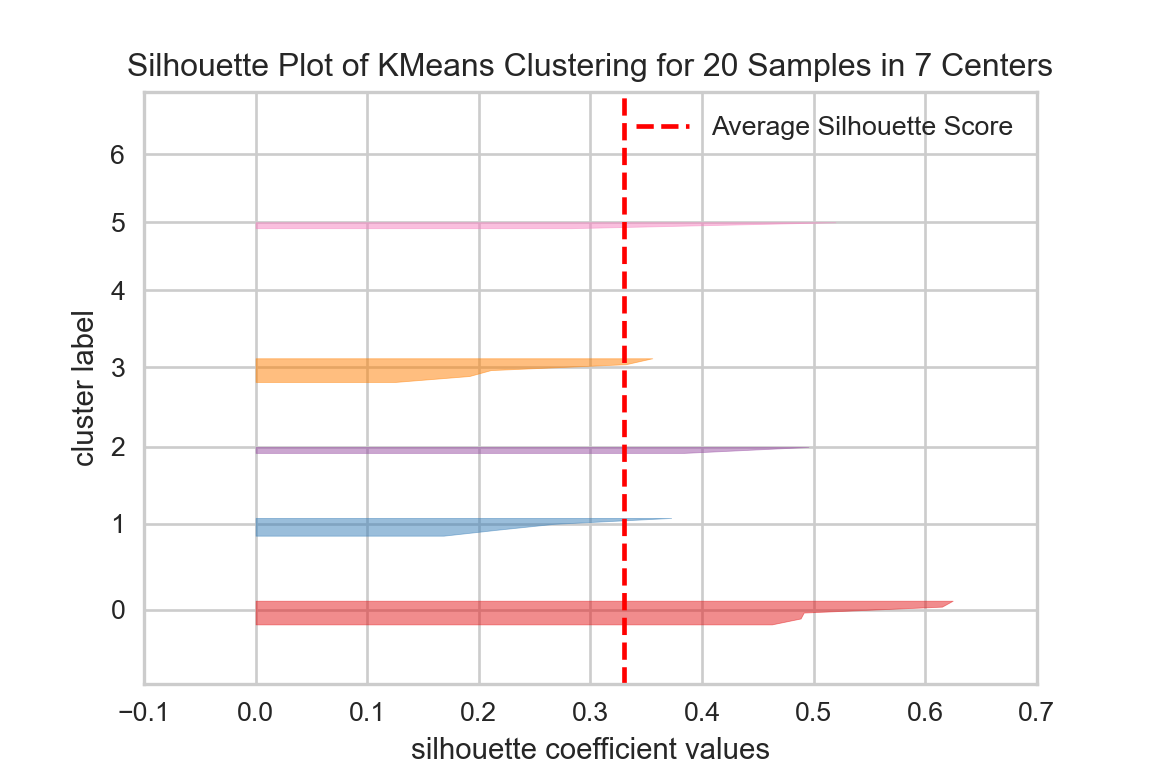
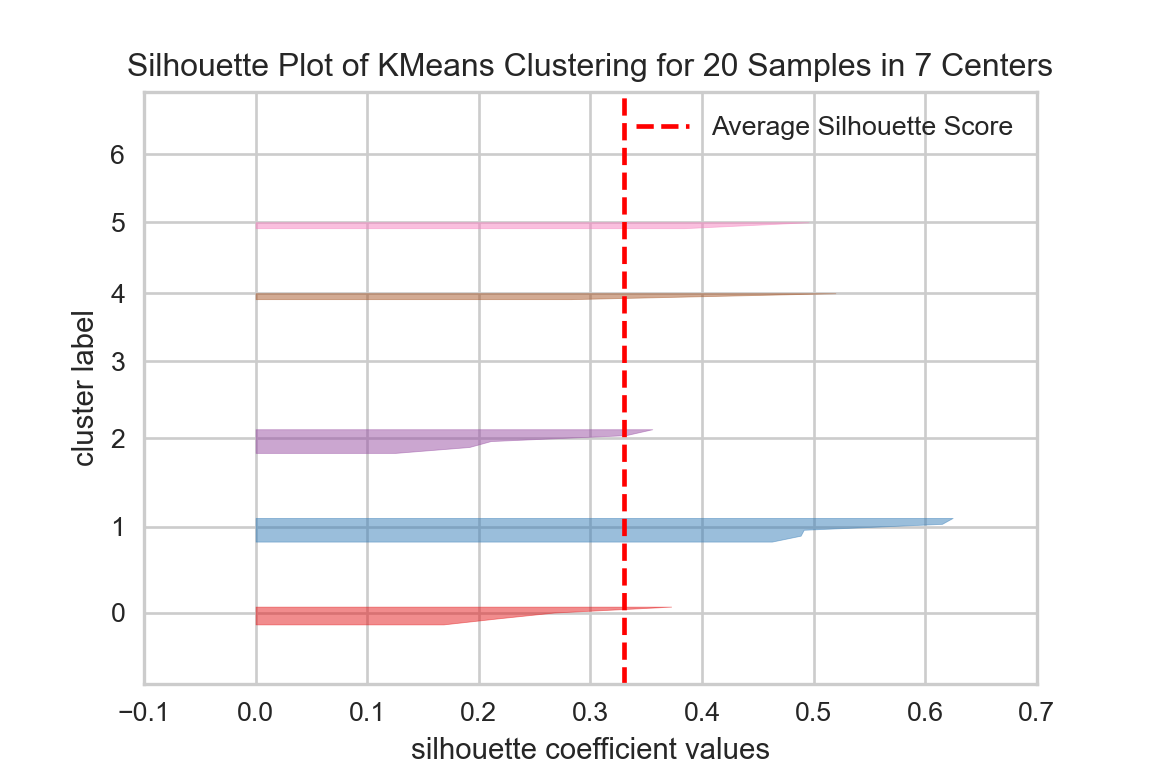
c

diff --git a/shopping-kmeans-python.html b/shopping-kmeans-python.html
@@ -11,7 +11,7 @@
 
 
 
-<title>Shopping-Kmeans-Python</title>
+<title>Shopping-Kmeans-Python-2</title>
 
 <script src="site_libs/header-attrs-2.6/header-attrs.js"></script>
 <script src="site_libs/jquery-1.11.3/jquery.min.js"></script>
@@ -326,18 +326,19 @@ $(document).ready(function () {
 
 
 
-<h1 class="title toc-ignore">Shopping-Kmeans-Python</h1>
+<h1 class="title toc-ignore">Shopping-Kmeans-Python-2</h1>
 
 </div>
 
 
-<pre class="python"><code>
-import matplotlib.pyplot as plt
+<pre class="python"><code>import matplotlib.pyplot as plt
+from sklearn import preprocessing
 from sklearn.cluster import KMeans
 from sklearn.metrics import silhouette_score
-from yellowbrick.cluster import SilhouetteVisualizer
 import pandas as pd
-shopping_original=pd.read_csv(&#39;./data/Shopping_Data.csv&#39;)
+from yellowbrick.cluster import KElbowVisualizer
+from yellowbrick.cluster import SilhouetteVisualizer</code></pre>
+<pre class="python"><code>shopping_original=pd.read_csv(&#39;./data/Shopping_Data.csv&#39;)
 # Examine data
 shopping_original.head()</code></pre>
 <pre><code>##    CaseNo  V1  V2  V3  V4  V5  V6
@@ -391,11 +392,40 @@ shopping_df</code></pre>
 ## 17   3   7   2   6   4   3
 ## 18   4   6   3   7   2   7
 ## 19   2   3   2   4   7   2</code></pre>
-<pre class="python"><code>cluster_range = range(1, 10)
+<pre class="python"><code>scaler = preprocessing.StandardScaler().fit(shopping_df)
+scaler
+#Z-transform
+</code></pre>
+<pre><code>## StandardScaler()</code></pre>
+<pre class="python"><code>shopping_df_scaled = pd.DataFrame(scaler.fit_transform(shopping_df), columns=shopping_df.columns, index=shopping_df.index)
+shopping_df_scaled</code></pre>
+<pre><code>##           V1        V2        V3        V4        V5        V6
+## 0   1.161314 -0.072739  1.554929 -0.743311 -0.844581 -0.925548
+## 1  -0.999270 -0.800132 -1.503948 -0.067574  0.902828 -0.239957
+## 2   1.701460 -1.527525  1.045116 -0.067574 -1.427050 -0.925548
+## 3   0.081022  1.382047  0.025491  0.608164 -0.262111  1.131225
+## 4  -1.539416 -0.800132 -0.994135 -1.419048  1.485297 -0.239957
+## 5   1.161314 -0.072739  1.045116 -0.743311 -0.262111 -0.239957
+## 6   0.621168 -0.800132  1.045116 -0.743311 -0.262111 -0.239957
+## 7   1.701460 -0.800132  1.554929 -0.067574 -1.427050 -0.239957
+## 8  -0.999270 -0.072739 -0.484322 -0.743311  1.485297 -0.925548
+## 9  -0.459124  0.654654 -0.484322  1.283901  0.320358  1.131225
+## 10 -1.539416 -0.800132 -0.994135 -0.743311  0.902828 -0.925548
+## 11  0.621168 -0.072739  0.535303 -0.067574 -0.844581 -0.239957
+## 12 -0.999270 -1.527525 -1.503948  0.608164  0.320358 -0.239957
+## 13  0.081022  1.382047  0.025491  1.283901  0.320358  1.816817
+## 14  1.161314  0.654654  0.025491 -1.419048 -1.427050 -0.239957
+## 15 -0.459124  0.654654  0.025491  1.283901  0.320358  1.816817
+## 16  0.081022 -0.072739  1.554929 -1.419048 -0.844581  0.445634
+## 17 -0.459124  2.109440 -0.994135  1.283901  0.320358 -0.925548
+## 18  0.081022  1.382047 -0.484322  1.959638 -0.844581  1.816817
+## 19 -0.999270 -0.800132 -0.994135 -0.067574  2.067766 -1.611139</code></pre>
+<pre class="python"><code>#Elbow with default libs
+cluster_range = range(1, 10)
 cluster_errors = []
 for num_clusters in cluster_range:
     clusters=KMeans(num_clusters)
-    clusters.fit(shopping_df)
+    clusters.fit(shopping_df_scaled)
     cluster_errors.append(clusters.inertia_)
     </code></pre>
 <pre><code>## KMeans(n_clusters=1)
@@ -409,81 +439,105 @@ for num_clusters in cluster_range:
 ## KMeans(n_clusters=9)</code></pre>
 <pre class="python"><code>plt.figure(figsize=(6,4))
 plt.plot(cluster_range,cluster_errors,marker=&quot;o&quot;)
-plt.show()
+plt.show()</code></pre>
+<p><img src="shopping-kmeans-python_files/figure-html/unnamed-chunk-3-1.png" width="576" /></p>
+<pre class="python"><code>#https://scikit-learn.org/stable/auto_examples/cluster/plot_kmeans_silhouette_analysis.html
+#Silhouette scores from library
 
-#Sil score</code></pre>
-<p><img src="shopping-kmeans-python_files/figure-html/unnamed-chunk-1-1.png" width="576" /></p>
-<pre class="python"><code>cluster_range = range(1, 10)
-sil_vals = []
-for num_clusters in cluster_range:
-    clusterer=KMeans(num_clusters)
-    cluster_labels=clusters.fit_predict(shopping_df)
-    sil_avg=silhouette_score(shopping_df, cluster_labels)
-    print(&quot;For n_clusters =&quot;, num_clusters,
-          &quot;The average silhouette_score is :&quot;, sil_avg)
-    sil_vals.append(sil_avg)
-    
-#Silhouette plot for 7 cluster solution</code></pre>
-<pre><code>## For n_clusters = 1 The average silhouette_score is : 0.29387104443620593
-## For n_clusters = 2 The average silhouette_score is : 0.2501758194182898
-## For n_clusters = 3 The average silhouette_score is : 0.2501758194182898
-## For n_clusters = 4 The average silhouette_score is : 0.2501758194182898
-## For n_clusters = 5 The average silhouette_score is : 0.2501758194182898
-## For n_clusters = 6 The average silhouette_score is : 0.2501758194182898
-## For n_clusters = 7 The average silhouette_score is : 0.24720322758543664
-## For n_clusters = 8 The average silhouette_score is : 0.2501758194182898
-## For n_clusters = 9 The average silhouette_score is : 0.29387104443620593</code></pre>
-<pre class="python"><code>clusters2=KMeans(7)
-visualizer = SilhouetteVisualizer(clusters2)
-visualizer.fit(shopping_df)
-#show the plot</code></pre>
-<pre><code>## SilhouetteVisualizer(ax=&lt;AxesSubplot:&gt;, estimator=KMeans(n_clusters=7))</code></pre>
-<pre class="python"><code>visualizer.show()
-</code></pre>
-<p><img src="shopping-kmeans-python_files/figure-html/unnamed-chunk-1-2.png" width="576" /></p>
-<pre class="python"><code>k=3
-model=KMeans(k).fit(shopping_df)
+
+range_n_clusters = range(2, 10)
+
+for n_clusters in range_n_clusters:
+
+# Initialize the clusterer with n_clusters value and a random generator
+    # seed of 10 for reproducibility.
+    clusterer = KMeans(n_clusters=n_clusters, random_state=10)
+    cluster_labels = clusterer.fit_predict(shopping_df_scaled)
+# The silhouette_score gives the average value for all the samples.
+    # This gives a perspective into the density and separation of the formed
+    # clusters
+    silhouette_avg = silhouette_score(shopping_df_scaled, cluster_labels)
+    #Choose the one with the highest sil score
+    print(&quot;For n_clusters =&quot;, n_clusters,
+          &quot;The average silhouette_score is :&quot;, silhouette_avg)</code></pre>
+<pre><code>## For n_clusters = 2 The average silhouette_score is : 0.36837140169996013
+## For n_clusters = 3 The average silhouette_score is : 0.5268850411661666
+## For n_clusters = 4 The average silhouette_score is : 0.4999970773496992
+## For n_clusters = 5 The average silhouette_score is : 0.40768358335059157
+## For n_clusters = 6 The average silhouette_score is : 0.34160652631472255
+## For n_clusters = 7 The average silhouette_score is : 0.33008836943588704
+## For n_clusters = 8 The average silhouette_score is : 0.31849311650374795
+## For n_clusters = 9 The average silhouette_score is : 0.3020347306222007</code></pre>
+<pre class="python"><code>#Elbow with YellowBrick
+#https://www.scikit-yb.org/en/latest/api/cluster/elbow.html
+model = KMeans(random_state=10) # seed 
+visualizer = KElbowVisualizer(model, k=(1,9))
+
+visualizer.fit(shopping_df_scaled)        # Fit the data to the visualizer</code></pre>
+<pre><code>## KElbowVisualizer(ax=&lt;AxesSubplot:&gt;, estimator=KMeans(random_state=10), k=None)
+## 
+## E:\Users\User\anaconda3\lib\site-packages\sklearn\base.py:213: FutureWarning: From version 0.24, get_params will raise an AttributeError if a parameter cannot be retrieved as an instance attribute. Previously it would return None.
+##   FutureWarning)</code></pre>
+<pre class="python"><code>visualizer.show()        # Finalize and render the figure
+#Future warnng due tO Yellowbrick and sckit versions
+#Sil with Yellow Brick</code></pre>
+<p><img src="shopping-kmeans-python_files/figure-html/unnamed-chunk-5-1.png" width="576" /></p>
+<pre class="python"><code>model = KMeans(random_state=10) # seed 
+visualizer = SilhouetteVisualizer(model,colors=&#39;yellowbrick&#39;)
+visualizer.fit(shopping_df_scaled)        # Fit the data to the visualizer</code></pre>
+<pre><code>## SilhouetteVisualizer(ax=&lt;AxesSubplot:&gt;, colors=&#39;yellowbrick&#39;,
+##                      estimator=KMeans(random_state=10))</code></pre>
+<pre class="python"><code>visualizer.show()  </code></pre>
+<p><img src="shopping-kmeans-python_files/figure-html/unnamed-chunk-5-2.png" width="576" /><img src="shopping-kmeans-python_files/figure-html/unnamed-chunk-5-3.png" width="576" /></p>
+<pre class="python"><code>#https://scikit-learn.org/stable/modules/generated/sklearn.cluster.KMeans.html
+
+k=3
+model=KMeans(n_clusters=k,random_state=10).fit(shopping_df_scaled)
 print(model)</code></pre>
-<pre><code>## KMeans(n_clusters=3)</code></pre>
+<pre><code>## KMeans(n_clusters=3, random_state=10)</code></pre>
 <pre class="python"><code>print(model.labels_)</code></pre>
 <pre><code>## [0 1 0 2 1 0 0 0 1 2 1 0 1 2 0 2 0 2 2 1]</code></pre>
 <pre class="python"><code>centroids=model.cluster_centers_
+#Profile the clusters# based on the centroids
+# Cluster 1 loads on V1 and V3
+# Cluster 2 loads on V5
+# Cluster 3 loads on V2,V4 and V6
 print(centroids)</code></pre>
-<pre><code>## [[5.75       3.625      6.         3.125      1.875      3.875     ]
-##  [1.66666667 3.         1.83333333 3.5        5.5        3.33333333]
-##  [3.5        5.83333333 3.33333333 6.         3.5        6.        ]]</code></pre>
-<pre class="python"><code>shopping_df[&quot;clusterid&quot;]=model.labels_
+<pre><code>## [[ 1.02627765 -0.34551166  1.04511612 -0.65884394 -0.91738926 -0.32565581]
+##  [-1.17931905 -0.80013226 -1.07910364 -0.40544243  1.19406221 -0.69701769]
+##  [-0.18905115  1.26081448 -0.31438452  1.28390102  0.02912347  1.13122543]]</code></pre>
+<pre class="python"><code>shopping_df_scaled[&quot;clusterid&quot;]=model.labels_
 
+#Members in the cluster
 #First Cluster
-shopping_df[shopping_df.clusterid==0]
-#Second</code></pre>
-<pre><code>##     V1  V2  V3  V4  V5  V6  clusterid
-## 0    6   4   7   3   2   3          0
-## 2    7   2   6   4   1   3          0
-## 5    6   4   6   3   3   4          0
-## 6    5   3   6   3   3   4          0
-## 7    7   3   7   4   1   4          0
-## 11   5   4   5   4   2   4          0
-## 14   6   5   4   2   1   4          0
-## 16   4   4   7   2   2   5          0</code></pre>
-<pre class="python"><code>shopping_df[shopping_df.clusterid==1]
-#Third</code></pre>
-<pre><code>##     V1  V2  V3  V4  V5  V6  clusterid
-## 1    2   3   1   4   5   4          1
-## 4    1   3   2   2   6   4          1
-## 8    2   4   3   3   6   3          1
-## 10   1   3   2   3   5   3          1
-## 12   2   2   1   5   4   4          1
-## 19   2   3   2   4   7   2          1</code></pre>
-<pre class="python"><code>shopping_df[shopping_df.clusterid==2]
-</code></pre>
-<pre><code>##     V1  V2  V3  V4  V5  V6  clusterid
-## 3    4   6   4   5   3   6          2
-## 9    3   5   3   6   4   6          2
-## 13   4   6   4   6   4   7          2
-## 15   3   5   4   6   4   7          2
-## 17   3   7   2   6   4   3          2
-## 18   4   6   3   7   2   7          2</code></pre>
+shopping_df_scaled[shopping_df_scaled.clusterid==0]
+#2nd</code></pre>
+<pre><code>##           V1        V2        V3        V4        V5        V6  clusterid
+## 0   1.161314 -0.072739  1.554929 -0.743311 -0.844581 -0.925548          0
+## 2   1.701460 -1.527525  1.045116 -0.067574 -1.427050 -0.925548          0
+## 5   1.161314 -0.072739  1.045116 -0.743311 -0.262111 -0.239957          0
+## 6   0.621168 -0.800132  1.045116 -0.743311 -0.262111 -0.239957          0
+## 7   1.701460 -0.800132  1.554929 -0.067574 -1.427050 -0.239957          0
+## 11  0.621168 -0.072739  0.535303 -0.067574 -0.844581 -0.239957          0
+## 14  1.161314  0.654654  0.025491 -1.419048 -1.427050 -0.239957          0
+## 16  0.081022 -0.072739  1.554929 -1.419048 -0.844581  0.445634          0</code></pre>
+<pre class="python"><code>shopping_df_scaled[shopping_df_scaled.clusterid==1]
+#3rd</code></pre>
+<pre><code>##           V1        V2        V3        V4        V5        V6  clusterid
+## 1  -0.999270 -0.800132 -1.503948 -0.067574  0.902828 -0.239957          1
+## 4  -1.539416 -0.800132 -0.994135 -1.419048  1.485297 -0.239957          1
+## 8  -0.999270 -0.072739 -0.484322 -0.743311  1.485297 -0.925548          1
+## 10 -1.539416 -0.800132 -0.994135 -0.743311  0.902828 -0.925548          1
+## 12 -0.999270 -1.527525 -1.503948  0.608164  0.320358 -0.239957          1
+## 19 -0.999270 -0.800132 -0.994135 -0.067574  2.067766 -1.611139          1</code></pre>
+<pre class="python"><code>shopping_df_scaled[shopping_df_scaled.clusterid==2]</code></pre>
+<pre><code>##           V1        V2        V3        V4        V5        V6  clusterid
+## 3   0.081022  1.382047  0.025491  0.608164 -0.262111  1.131225          2
+## 9  -0.459124  0.654654 -0.484322  1.283901  0.320358  1.131225          2
+## 13  0.081022  1.382047  0.025491  1.283901  0.320358  1.816817          2
+## 15 -0.459124  0.654654  0.025491  1.283901  0.320358  1.816817          2
+## 17 -0.459124  2.109440 -0.994135  1.283901  0.320358 -0.925548          2
+## 18  0.081022  1.382047 -0.484322  1.959638 -0.844581  1.816817          2</code></pre>
 
 <div id="footer">
 <p>Copyright &copy; 2021,  Angeline Fernando,  All rights reserved.</p>
